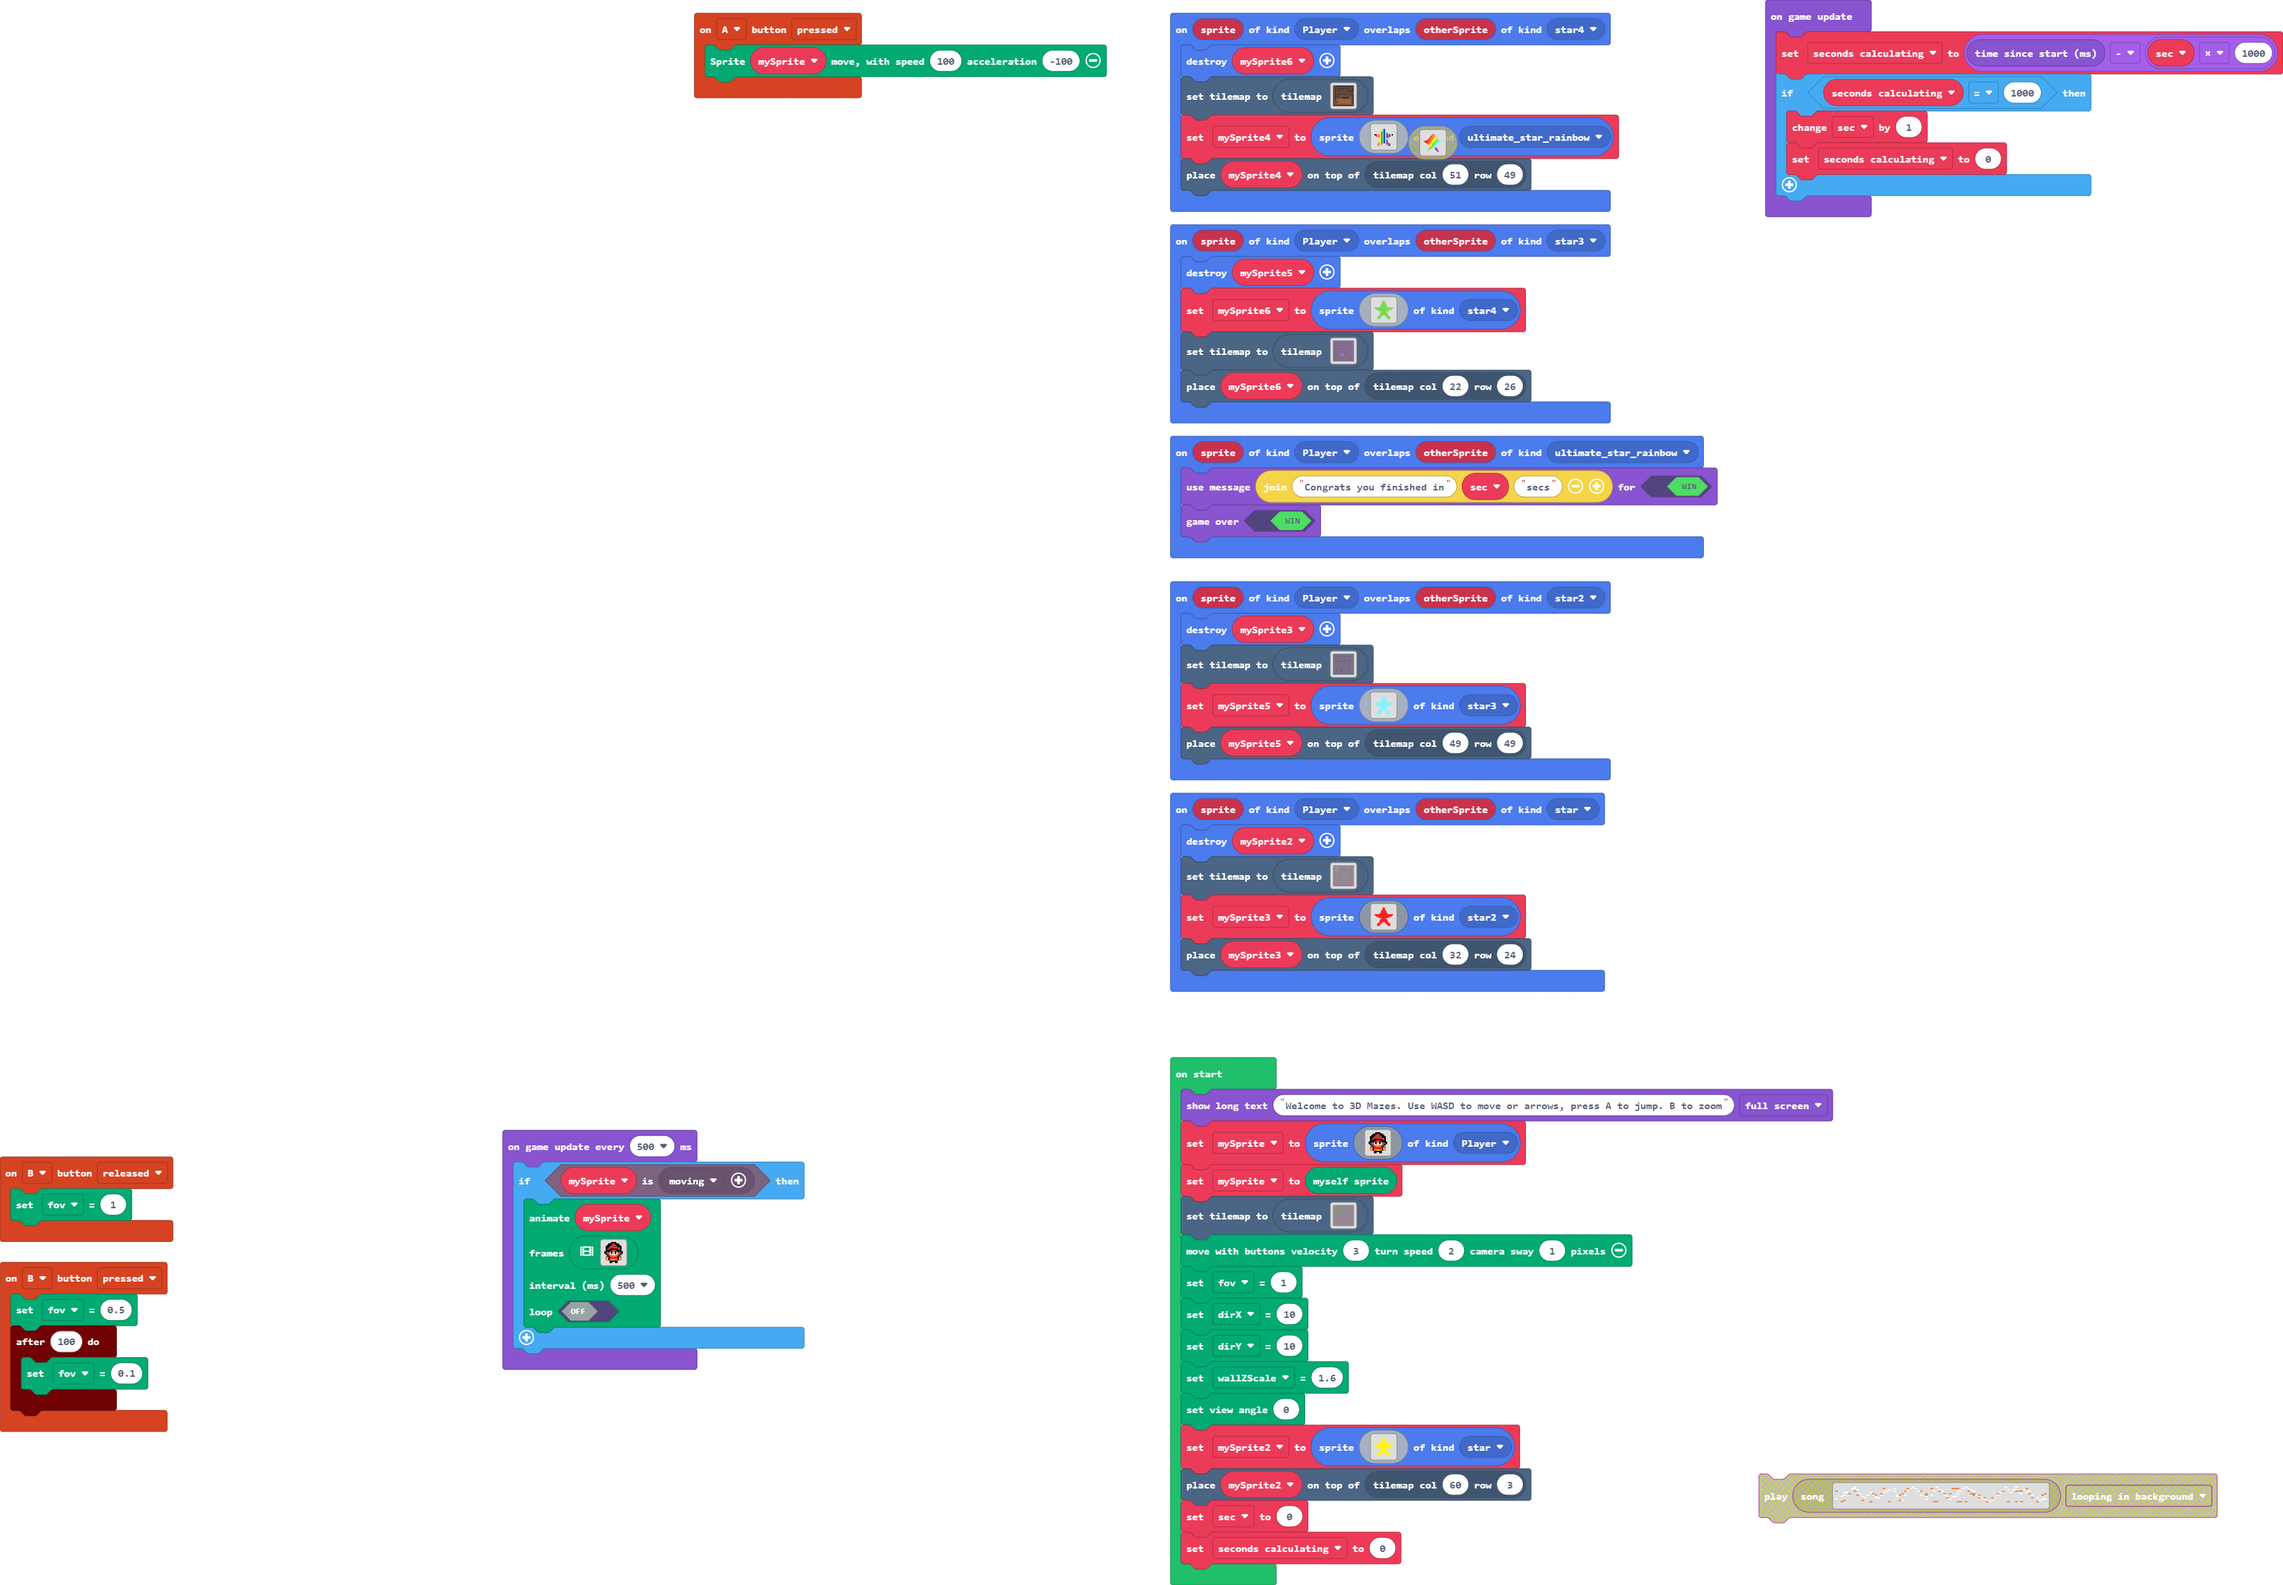
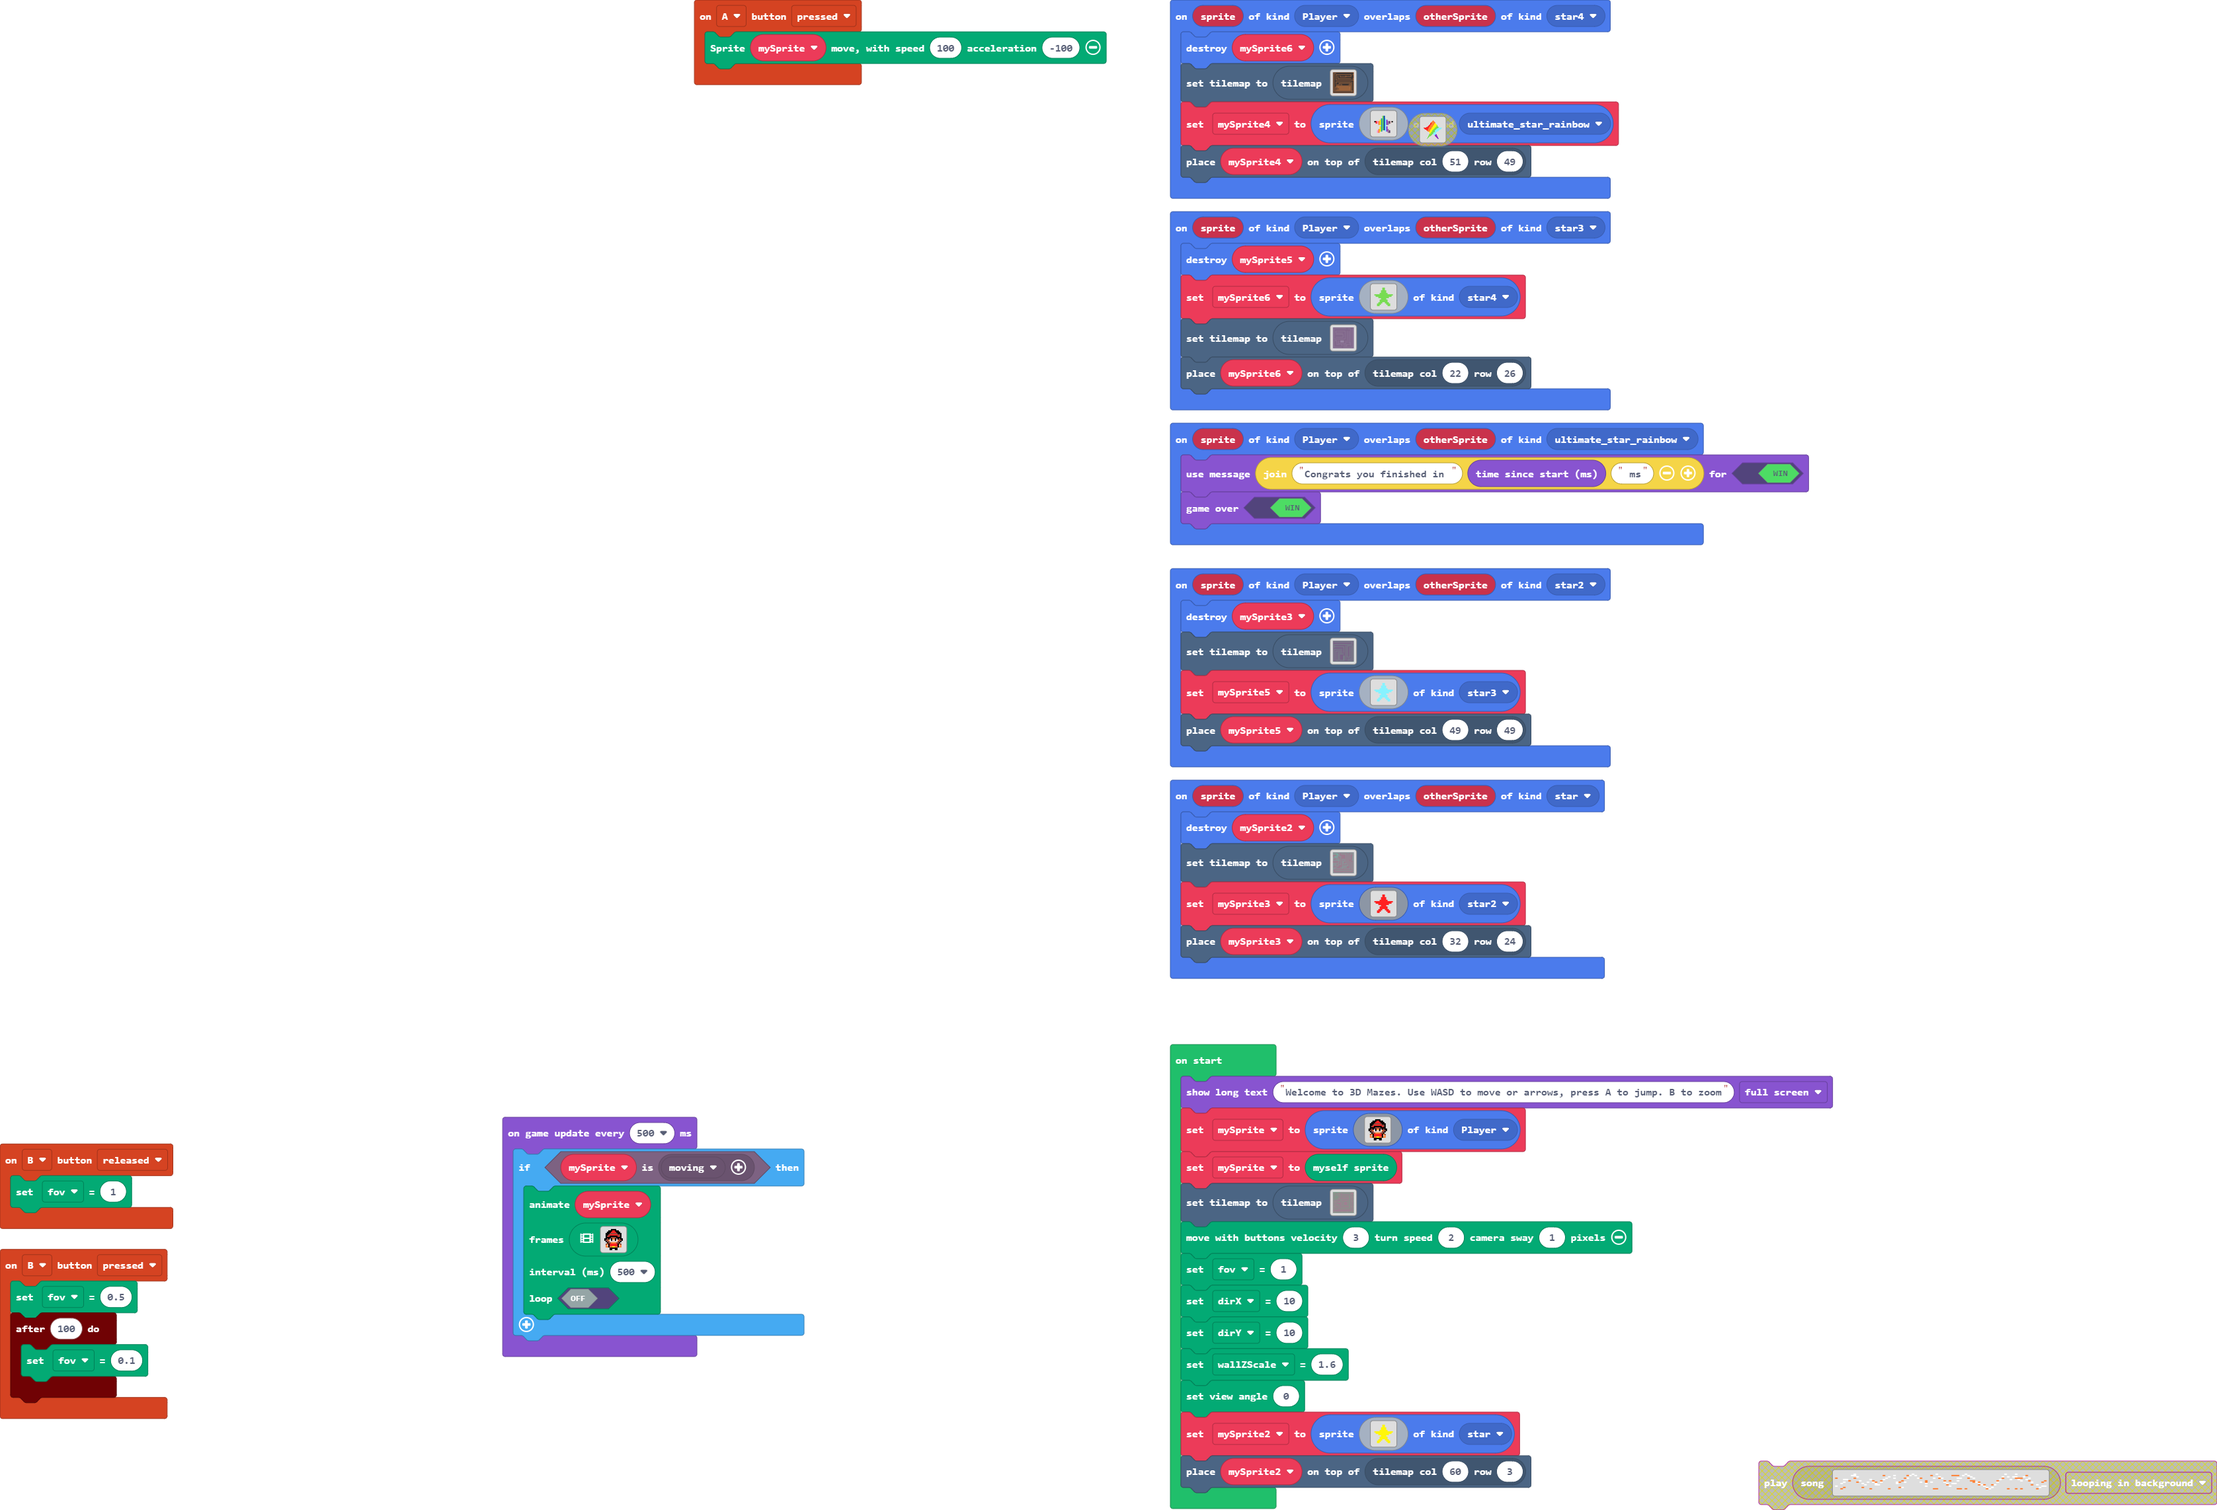
Update main.blocks, main.ts

diff --git a/main.ts b/main.ts
@@ -6,7 +6,7 @@ namespace SpriteKind {
     export const star4 = SpriteKind.create()
 }
 sprites.onOverlap(SpriteKind.Player, SpriteKind.ultimate_star_rainbow, function (sprite, otherSprite) {
-    game.setGameOverMessage(true, "Congrats you finished in" + sec + "secs")
+    game.setGameOverMessage(true, "Congrats you finished in " + game.runtime() + " ms")
     game.gameOver(true)
 })
 controller.B.onEvent(ControllerButtonEvent.Pressed, function () {
@@ -117,7 +117,6 @@ let mySprite5: Sprite = null
 let mySprite3: Sprite = null
 let mySprite4: Sprite = null
 let mySprite6: Sprite = null
-let sec = 0
 let mySprite2: Sprite = null
 let mySprite: Sprite = null
 game.showLongText("Welcome to 3D Mazes. Use WASD to move or arrows, press A to jump. B to zoom", DialogLayout.Full)
@@ -166,15 +165,6 @@ mySprite2 = sprites.create(img`
     . . . . . . . . . . . . . . . . 
     `, SpriteKind.star)
 tiles.placeOnTile(mySprite2, tiles.getTileLocation(60, 3))
-sec = 0
-let seconds_calculating = 0
-game.onUpdate(function () {
-    seconds_calculating = game.runtime() - sec * 1000
-    if (seconds_calculating == 1000) {
-        sec += 1
-        seconds_calculating = 0
-    }
-})
 game.onUpdateInterval(500, function () {
     if (characterAnimations.matchesRule(mySprite, characterAnimations.rule(Predicate.Moving))) {
         animation.runImageAnimation(
